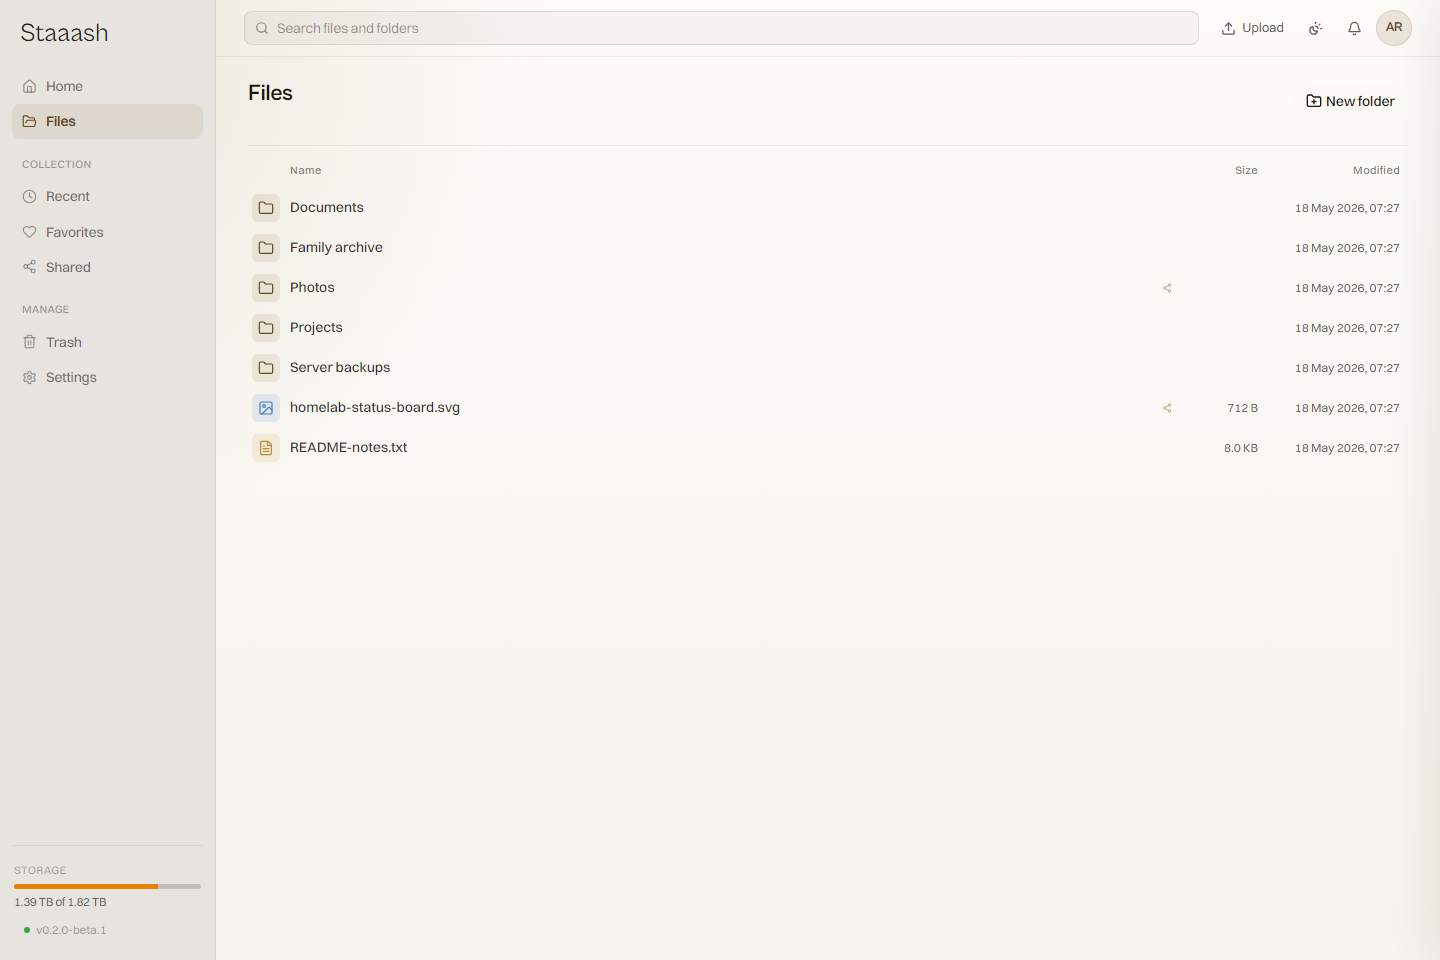
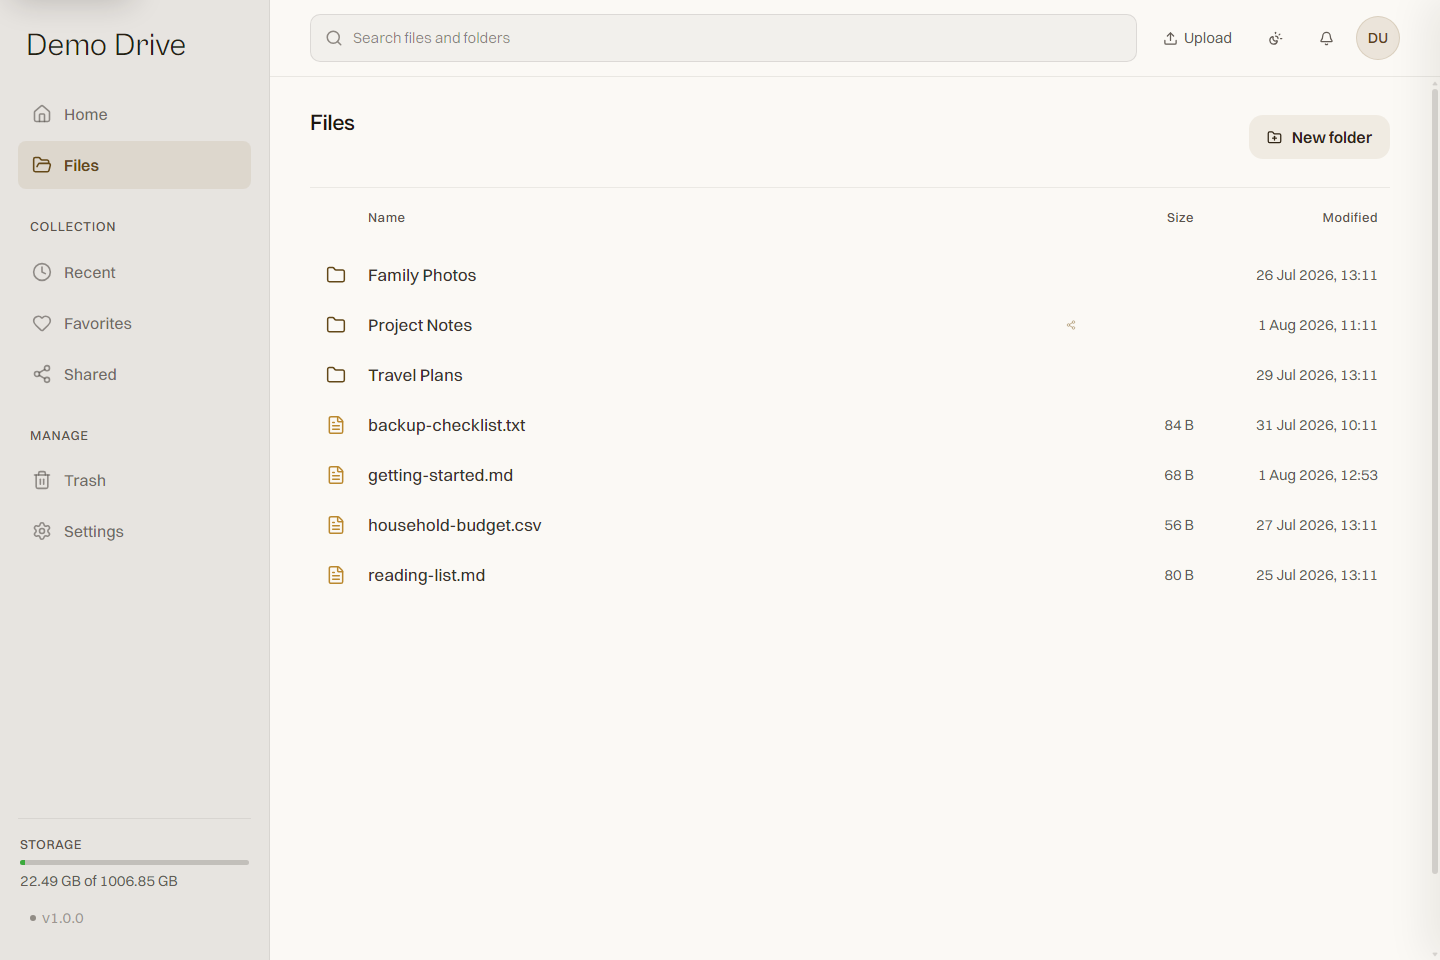
chore(release): prepare v1.0.0 (#205)
* chore(release): prepare v1.0.0

* docs: refresh README screenshots

* test: stabilize share API expiry fixture

* docs: refine release screenshots

* docs: show stable release badge

* docs: clarify user creation permissions

diff --git a/apps/worker/src/handlers/update-check.test.ts b/apps/worker/src/handlers/update-check.test.ts
@@ -128,9 +128,9 @@ describe("update check handler", () => {
         status: 200,
         json: async () => [
           {
-            tag_name: "v999.0.0-rc.1",
+            tag_name: "v999.0.0",
             draft: false,
-            prerelease: true,
+            prerelease: false,
           },
         ],
       }),
@@ -142,7 +142,7 @@ describe("update check handler", () => {
     expect(writeInstanceUpdateCheck).toHaveBeenCalledWith(
       expect.objectContaining({
         updateCheckStatus: "update-available",
-        latestAvailableVersion: "999.0.0-rc.1",
+        latestAvailableVersion: "999.0.0",
       }),
     );
   });

diff --git a/apps/web/server/share-api-routes.test.ts b/apps/web/server/share-api-routes.test.ts
@@ -37,7 +37,7 @@ import { POST as updatePassword } from "@/app/api/shares/[shareId]/password/rout
 import { POST as revokeShare } from "@/app/api/shares/[shareId]/revoke/route";
 import { POST as updateShare } from "@/app/api/shares/[shareId]/update/route";
 
-const futureExpiry = new Date("2026-08-01T12:00:00.000Z");
+const futureExpiry = new Date("2099-08-01T12:00:00.000Z");
 
 const makeShare = (
   overrides: Partial<StoredShareLink> = {},

diff --git a/.github/README.md b/.github/README.md
@@ -8,195 +8,222 @@
 </p>
 <h1>Staaash</h1>
 
-[![AGPL-3.0 License](https://img.shields.io/badge/license-AGPL--3.0-blue.svg)](./LICENSE)
-[![Release](https://img.shields.io/github/v/release/itsmeares/staaash?include_prereleases&label=release)](https://github.com/itsmeares/staaash/releases)
+[![AGPL-3.0 License](https://img.shields.io/badge/license-AGPL--3.0-blue.svg)](../LICENSE)
+[![Release](https://img.shields.io/github/v/release/itsmeares/staaash?label=release)](https://github.com/itsmeares/staaash/releases)
 [![Docker](https://img.shields.io/badge/docker-ghcr.io-blue)](https://github.com/itsmeares/staaash/pkgs/container/staaash)
 [![Self-hosted](https://img.shields.io/badge/self--hosted-yes-brightgreen)](#installation)
 
 </div>
 
 > [!IMPORTANT]
-> **Staaash is in beta.** Expect some bugs and breaking changes between pre-releases. Do not use it as your only copy of important files — set up a [3-2-1 backup strategy](https://www.backblaze.com/blog/the-3-2-1-backup-strategy/) before you start.
+> **Staaash v1.0 is the first stable release line.** Staaash is a file drive, not a backup system. Keep an independent backup of every important file you store in it and test that you can restore it.
 
 ---
 
-<p align="center">Staaash is a self-hosted file drive for people who want their files on their own server.</p>
+<p align="center">A private, self-hosted file drive for people who want their files on storage they control.</p>
+
+Staaash gives individuals, families, and small trusted groups a browser-based drive without handing their files to a third-party cloud. It combines everyday file management and public sharing with explicit local-storage behavior, an operator-facing admin area, and recovery that fails closed when filesystem state is ambiguous.
 
 <table>
   <tr>
     <td colspan="2">
-      <img src="../docs/assets/readme/home-dashboard-light.png" alt="Staaash files view in light mode">
+      <picture>
+        <source media="(prefers-color-scheme: dark)" srcset="../docs/assets/readme/home-dashboard-dark.png">
+        <img src="../docs/assets/readme/home-dashboard-light.png" alt="Staaash home dashboard with pinned items, recent activity, populated folders, and a shared folder">
+      </picture>
     </td>
   </tr>
   <tr>
-    <td>
-      <img src="../docs/assets/readme/files-light.png" alt="Staaash home dashboard in light mode">
+    <td width="50%">
+      <picture>
+        <source media="(prefers-color-scheme: dark)" srcset="../docs/assets/readme/files-dark.png">
+        <img src="../docs/assets/readme/files-light.png" alt="Staaash files view with demo folders, files, sizes, and varied modification dates">
+      </picture>
     </td>
-    <td>
-      <img src="../docs/assets/readme/share-page-light.png" alt="Staaash public share page in light mode">
+    <td width="50%">
+      <picture>
+        <source media="(prefers-color-scheme: dark)" srcset="../docs/assets/readme/share-page-dark.png">
+        <img src="../docs/assets/readme/share-page-light.png" alt="Staaash public video share for definitely-not-a-rickroll.mp4 with an inline player">
+      </picture>
     </td>
   </tr>
 </table>
 
-## Why Use It
+## Features
 
-- Your files stay on storage you control.
-- Sharing is built in, with public links for files and folders.
-- Invite friends or family and give them their own space.
-- Built for real home use: uploads, folders, sharing, backups, and restore checks.
+- **Files and folders:** upload, create folders, preview, download, rename, move, favorite, search, trash, restore, and permanently delete.
+- **Reliable transfers:** resumable uploads, per-user quotas, bounded staging capacity, upload progress, and generated ZIP downloads for selections and folders.
+- **Useful views:** home dashboard, recent items, favorites, shared links, path-aware search, and responsive desktop and mobile navigation.
+- **Public sharing:** links for files and folders with expiry, optional passwords, download controls, media previews, and revocation.
+- **Multiple users:** owner and admin management, per-user storage limits, temporary passwords, required password changes, and authorized-session controls.
+- **Media support:** inline image, audio, video, PDF, and text viewing, with optional FFmpeg-generated video previews handled by the worker.
+- **Operations:** health and integrity status, storage usage, job history, update checks, restore reconciliation, and crash-recoverable storage mutations.
 
-Upload files, organize folders, invite trusted users, and share links without handing the whole thing to someone else's cloud. It is built for self-hosters who want something small enough to understand and useful enough to run at home.
+## Requirements
 
-If [Immich](https://github.com/immich-app/immich) is your self-hosted photo library, Staaash aims to be your self-hosted file drive.
+- Docker Engine or Docker Desktop with the Docker Compose plugin.
+- A host that can run Linux AMD64 containers. The published v1 image currently targets `linux/amd64`; there is no native ARM64 image.
+- A local, same-volume filesystem for uploaded files with atomic rename plus working file and directory `fsync`.
+- Enough disk space for PostgreSQL, original files, temporary uploads, previews, and generated archives.
+
+The supplied Compose stack runs PostgreSQL 18 and exposes Staaash on port `2113`. Network filesystems, object-storage mounts, and S3-compatible backends are not supported storage locations.
 
 ## Installation
 
-Requirements: [Docker](https://docs.docker.com/get-docker/) with the Compose plugin.
-
-### Windows and Linux
-
-1. Go to the [releases page](https://github.com/itsmeares/staaash/releases) and download `docker-compose.yml` and `example.env` from the release you want into the same folder. Release files select that exact version tag; files on `main` may include unreleased changes.
-2. Rename `example.env` to `.env`.
-3. Open `.env`, set `DB_PASSWORD` to a secure value (you can use something like pwgen), and change any other settings you want.
-4. Run:
+1. Open the [GitHub Releases page](https://github.com/itsmeares/staaash/releases) and select the release you want. For the first stable release, use `v1.0.0`.
+2. Download that release's `docker-compose.yml` and `example.env` into the same empty folder. Release assets select the exact release tag; files on `main` may contain unreleased changes.
+3. Rename `example.env` to `.env`.
+4. Set `DB_PASSWORD` in `.env` to a long, unique alphanumeric value. Set custom storage paths before first start if you do not want the defaults.
+5. Start the stack:
 
    ```console
    docker compose up -d
    ```
 
-Staaash is now running at `http://localhost:2113`.
+6. Open `http://localhost:2113` and complete the initial setup. The first account becomes the owner and an admin.
 
-The first account you register becomes the owner. Subsequent accounts require an invite from the owner.
+Additional users are created by the owner from **Admin → Users**. Staaash issues or accepts a temporary password and can require the user to replace it at first sign-in; it does not use email invitation links.
 
-### Optional release verification
+### Configuration
 
-Advanced users can also download `release-manifest.json` and `SHA256SUMS` from the same release to verify the files. The manifest records the workflow-verified immutable image reference. To pin that digest, set `STAAASH_VERSION` to its `v1.2.3@sha256:...` value instead of the normal `v1.2.3` tag.
+| Variable             | Default      | Purpose                                                                 |
+| -------------------- | ------------ | ----------------------------------------------------------------------- |
+| `STAAASH_VERSION`    | `latest`     | Image tag. Release assets replace this with their exact release tag.    |
+| `UPLOAD_LOCATION`    | `./library`  | Host directory for uploaded files and app-managed storage artifacts.    |
+| `DB_DATA_LOCATION`   | `./postgres` | Host directory for the PostgreSQL 18 data directory.                    |
+| `DB_USERNAME`        | `postgres`   | PostgreSQL username used by the supplied Compose stack.                 |
+| `DB_DATABASE_NAME`   | `staaash`    | PostgreSQL database name used by the supplied Compose stack.            |
+| `DB_PASSWORD`        | `change-me`  | Required PostgreSQL password; change before first start.                |
+| `STAAASH_PUBLIC_URL` | unset        | Canonical public URL for generated share links and embed metadata.      |
+| `SECURE_COOKIES`     | automatic    | Optional `true` or `false` override for automatic HTTP/HTTPS detection. |
 
-If you use CasaOS or another container UI, select the same readable release normally, for example `ghcr.io/itsmeares/staaash:v1.2.3`.
+The two data paths are relative to the folder containing `docker-compose.yml`. Change them in `.env`, not in the Compose volume definitions.
 
-### Reverse proxies
+### Reverse proxies and public links
 
-For a working Caddy example, see [`docs/operations/reverse-proxy.md`](../docs/operations/reverse-proxy.md).
+Staaash can run behind Caddy, Nginx, Traefik, or another reverse proxy. Use one public address consistently, preserve the original `Host` header, and forward `X-Forwarded-Proto: https` when TLS terminates at the proxy. Staaash deliberately rejects cross-origin mutating requests when the browser `Origin` host and request `Host` do not match.
 
-If you put Staaash behind Caddy, Nginx, Traefik, or another reverse proxy, preserve the original `Host` header. Staaash rejects cross-origin mutating requests by comparing the browser `Origin` host to the request `Host`.
+Set `STAAASH_PUBLIC_URL` to the canonical HTTPS address when generated share links and Discord media embeds must use it. See the [reverse-proxy guide](../docs/operations/reverse-proxy.md) and [public-sharing guide](../docs/operations/public-sharing.md) for the supported setup.
 
-Use one public address consistently. Loading the app from `https://staaash.example.com` and posting to a direct server IP, LAN IP, or different port can fail by design.
+### Verifying a release
 
-`SECURE_COOKIES` is optional. By default, Staaash uses secure cookies on HTTPS and non-secure cookies on plain HTTP. Only set `SECURE_COOKIES` if you need to force cookie behavior. If your HTTPS proxy forwards traffic to Staaash over HTTP, make sure it sends `x-forwarded-proto: https`.
+Each release also provides:
 
-### Upgrading
+- `release-manifest.json`, containing the verified Git tag, commit, OCI index digest, immutable image reference, platform, and labels;
+- `SHA256SUMS`, covering the Compose file, environment file, and release manifest.
 
-Change the exact release tag in your existing `.env`:
+Use the files from the same GitHub Release. Advanced deployments can pin the manifest's immutable `<tag>@sha256:<digest>` value as `STAAASH_VERSION`; ordinary installs should keep the readable exact tag generated in the release environment file. Container UIs such as CasaOS should select that same readable tag.
 
-```diff
-- STAAASH_VERSION=v1.2.3
-+ STAAASH_VERSION=v1.2.4
-```
+## Upgrading
 
-Then run:
+1. Read the target release notes and take a complete offline backup.
+2. Change `STAAASH_VERSION` in `.env` to the target release tag.
+3. Replace `docker-compose.yml` only when the target release notes say its Compose definition changed.
+4. Pull and restart:
 
-```console
-docker compose pull
-docker compose up -d
-```
+   ```console
+   docker compose pull
+   docker compose up -d
+   ```
 
-Replace or update `docker-compose.yml` only when the target release notes say its Compose definition changed. Migrations run automatically on startup. These commands support upgrades between compatible releases in the Postgres 18 RC/current release line.
+Database migrations run automatically on startup. Compatible installations in the PostgreSQL 18 RC/v1 release line can upgrade in place. Alpha and beta deployments are unsupported development history: create a fresh current installation and do not reuse their internal database or storage directories as current data directories.
 
-> [!WARNING]
-> Alpha and beta releases cannot be upgraded to the RC or v1 release line. Use a fresh installation of the current release. Do not reuse an alpha/beta deployment's internal database or storage directories as the data directories for the current installation.
+After an upgrade, check the version badge and **Admin → Overview**. Storage-protocol upgrades may temporarily keep writes unavailable while the worker completes recovery; follow the target release notes and the [storage-mutation recovery guide](../docs/operations/storage-mutation-recovery.md).
 
-### Data locations
+## Storage, Backup, and Restore
 
-| What           | Default path |
-| -------------- | ------------ |
-| Uploaded files | `./library`  |
-| Database       | `./postgres` |
+Staaash is a modular monolith with two application runtimes:
 
-Both paths are relative to where `docker-compose.yml` lives. Change them in `.env` before first run.
+- the Next.js web app handles the product UI and request-time behavior;
+- the worker handles durable cleanup, previews, archives, reconciliation, and storage-mutation recovery.
 
-With the default Postgres 18 container, `./postgres` is still the folder you back up. Inside the container, Postgres stores the actual cluster under its versioned data directory.
+PostgreSQL is the metadata and durable-intent authority. Original bytes live on the configured local filesystem in human-readable logical paths. Rename, move, trash, and restore operations are recorded in a PostgreSQL mutation journal before filesystem changes begin; interrupted work rolls forward, while ambiguous state preserves possible bytes and requires operator review.
 
-## Backup And Restore
+Back up `UPLOAD_LOCATION` and `DB_DATA_LOCATION` together while the web app, worker, and PostgreSQL are stopped. A backup containing only one location is incomplete. Test restores on a separate clean deployment before trusting them. Follow the complete [backup and restore checklist](../docs/operations/backup-restore.md).
 
-Back up both the database and uploaded files. In the default Docker setup, that means backing up `./postgres` and `./library` together.
+## Current Limitations
 
-See [`docs/operations/backup-restore.md`](../docs/operations/backup-restore.md) for the restore checklist.
+- One modular application stack with a separate worker; no microservice deployment mode.
+- Linux AMD64 image only; no native ARM64 release image.
+- Local, same-volume app-managed storage only; no S3, object storage, or network filesystem support.
+- No desktop sync client or native mobile application.
+- No shared workspaces or internal collaboration permission model in v1.
+- External tools may read storage for backup, but editing app-managed paths outside Staaash is unsupported.
+- Owner authority is operational and does not provide a normal-app bypass into another user's private files.
 
 ## Documentation
 
-- [`docs/architecture.md`](../docs/architecture.md) - system shape, storage model, and design boundaries
-- [`docs/operations/backup-restore.md`](../docs/operations/backup-restore.md) - simple backup and restore checklist
+- [Architecture](../docs/architecture.md) — system shape, storage model, and design boundaries
+- [Backup and restore](../docs/operations/backup-restore.md) — offline backup and restore drill
+- [Public sharing](../docs/operations/public-sharing.md) — canonical share URLs and HTTPS embeds
+- [Reverse proxy](../docs/operations/reverse-proxy.md) — Caddy example and proxy requirements
+- [Resumable uploads](../docs/operations/resumable-uploads.md) — capacity, cleanup, and recovery behavior
+- [Storage mutation recovery](../docs/operations/storage-mutation-recovery.md) — filesystem requirements and recovery operations
+- [Releasing](./RELEASING.md) — maintainer release identity, verification, and recovery flow
 
 ## Local Development
 
-Staaash is a PNPM workspace monorepo.
+Staaash is a PNPM workspace monorepo built with Next.js, React, TypeScript, Prisma, PostgreSQL, and a separate Node.js worker.
 
-Next.js · TypeScript · Prisma · PostgreSQL
+### Repository layout
 
-### Repository Layout
+- `apps/web` — web app, server modules, and API routes
+- `apps/worker` — background worker runtime
+- `packages/config` — shared runtime and TypeScript configuration
+- `packages/db` — Prisma schema, generated client, and database helpers
+- `docs` — architecture and operations guidance
+- `scripts` — maintenance and release utilities
 
-- `apps/web` - web app and server routes
-- `apps/worker` - background worker runtime
-- `packages/config` - shared TypeScript config
-- `packages/db` - Prisma schema and DB helpers
-- `docs` - architecture reference
+### Development setup
 
-### Development Setup
+Use Node.js 24.18.0, Corepack, the repository-pinned pnpm version, and PostgreSQL 18.
 
-1. Copy `dev.example.env` to `.env.local` at the repo root.
-2. Start PostgreSQL.
-   The default `.env.local` expects `postgresql://staaash:staaash@localhost:5432/staaash`.
-   If you want a local Docker container that matches those values, run:
+1. Copy `dev.example.env` to `.env.local` at the repository root.
+2. Start PostgreSQL and update `DATABASE_URL` if it does not use the example connection details.
+3. Install and prepare the workspace:
 
    ```console
-   docker run --name staaash-postgres -e POSTGRES_USER=staaash -e POSTGRES_PASSWORD=staaash -e POSTGRES_DB=staaash -p 5432:5432 -v staaash-postgres-data:/var/lib/postgresql -d postgres:18-alpine
+   corepack enable
+   corepack install
+   pnpm install
+   pnpm db:generate
+   pnpm db:push
    ```
 
-   After that first run, you can restart it later with `docker start staaash-postgres`.
-   If you already have PostgreSQL running another way, just update `DATABASE_URL` in `.env.local`.
+4. Start the web app and worker in separate terminals:
 
-3. Run `pnpm i`.
-4. Run `pnpm db:generate`.
-5. Run `pnpm db:push`.
-6. Start the web app with `pnpm web:dev`.
-7. Start the worker with `pnpm worker:dev`.
+   ```console
+   pnpm web:dev
+   pnpm worker:dev
+   ```
 
-### Resetting Local Data
+FFmpeg is required on the worker host when testing generated video previews outside the production container.
 
-If you need to reset your local database and file uploads during development:
+The local reset command deletes the configured development upload tree and force-resets the development database. Run it only when those exact targets are disposable:
 
 ```console
 pnpm app:reset-local-data
 ```
 
-This will:
+## Testing and Quality
 
-- Delete all local file uploads (`.data/files`)
-- Reset the Prisma database schema with `prisma db push --force-reset`
+```console
+pnpm format:check
+pnpm lint
+pnpm quality:fallow
+pnpm test
+pnpm test:postgres
+pnpm build
+```
 
-**Note:** Use this script to reset your database please, you may have data remain if you do it manually.
+PostgreSQL integration and browser E2E suites require isolated disposable data. Do not point their reset/bootstrap commands at a normal development or production database.
 
-## Testing And Quality
+## Contributing and Feedback
 
-- staged files are auto-formatted on commit
-- `pnpm format:check`
-- `pnpm format` for one-off repo-wide formatting or intentional normalization
-- `pnpm lint`
-- `pnpm test`
-- `pnpm build`
-
-## AI Use
-
-AI is being used in this project as part of the development and documentation workflow.
-
-That does not change the quality bar. Generated code or generated docs still need to be reviewed, tested, and kept consistent with the repo's actual behavior.
-
-## Contributing And Feedback
-
-- read [`CONTRIBUTING.md`](./CONTRIBUTING.md) before opening work
-- use the GitHub issue forms for bug reports and feature requests
-- use the PR template when opening changes
-- report security problems privately as described in [`SECURITY.md`](./SECURITY.md)
+- Read [CONTRIBUTING.md](./CONTRIBUTING.md) before opening work.
+- Use the GitHub issue forms for bug reports and feature requests.
+- Use the pull request template for proposed changes.
+- Report security problems privately as described in [SECURITY.md](./SECURITY.md).
 
 ## Star History
 

diff --git a/docs/operations/backup-restore.md b/docs/operations/backup-restore.md
@@ -1,6 +1,6 @@
 # Backup And Restore
 
-Staaash is in beta. Do not keep important files in Staaash unless you also have a separate backup.
+Staaash is not a backup system. Keep an independent backup of every important file stored in Staaash.
 
 Back up both data folders together:
 
@@ -11,7 +11,7 @@ By default these folders sit next to `docker-compose.yml`. If you changed `UPLOA
 
 Fresh installs use Postgres 18. The default `postgres` folder is still the folder you back up, but the Postgres 18 container stores the actual database cluster under its versioned directory inside the container.
 
-This guide applies only to compatible installations in the supported Postgres 18 RC/current release line. Alpha and beta releases are unsupported development history and cannot be upgraded to the RC or v1 line. Start a fresh current installation instead. Do not reuse an alpha/beta deployment's internal database or storage directories as the data directories for a current installation.
+This guide applies only to compatible installations in the supported Postgres 18 RC/v1 release line. Alpha and beta releases are unsupported development history and cannot be upgraded to the RC or v1 line. Start a fresh current installation instead. Do not reuse an alpha/beta deployment's internal database or storage directories as the data directories for a current installation.
 
 ## Backup Checklist
 

diff --git a/docs/architecture.md b/docs/architecture.md
@@ -70,7 +70,7 @@ preserve every possible byte and fail closed until an operator investigates.
 
 ## Related Docs
 
-- [`../README.md`](../README.md) for install and local development steps
+- [`../.github/README.md`](../.github/README.md) for install and local development steps
 - [`operations/backup-restore.md`](./operations/backup-restore.md) for backup and restore expectations
 - [`operations/resumable-uploads.md`](./operations/resumable-uploads.md) for resumable admission, quota, and cleanup behavior
 - [`operations/storage-mutation-recovery.md`](./operations/storage-mutation-recovery.md) for mutation recovery and upgrade operations
